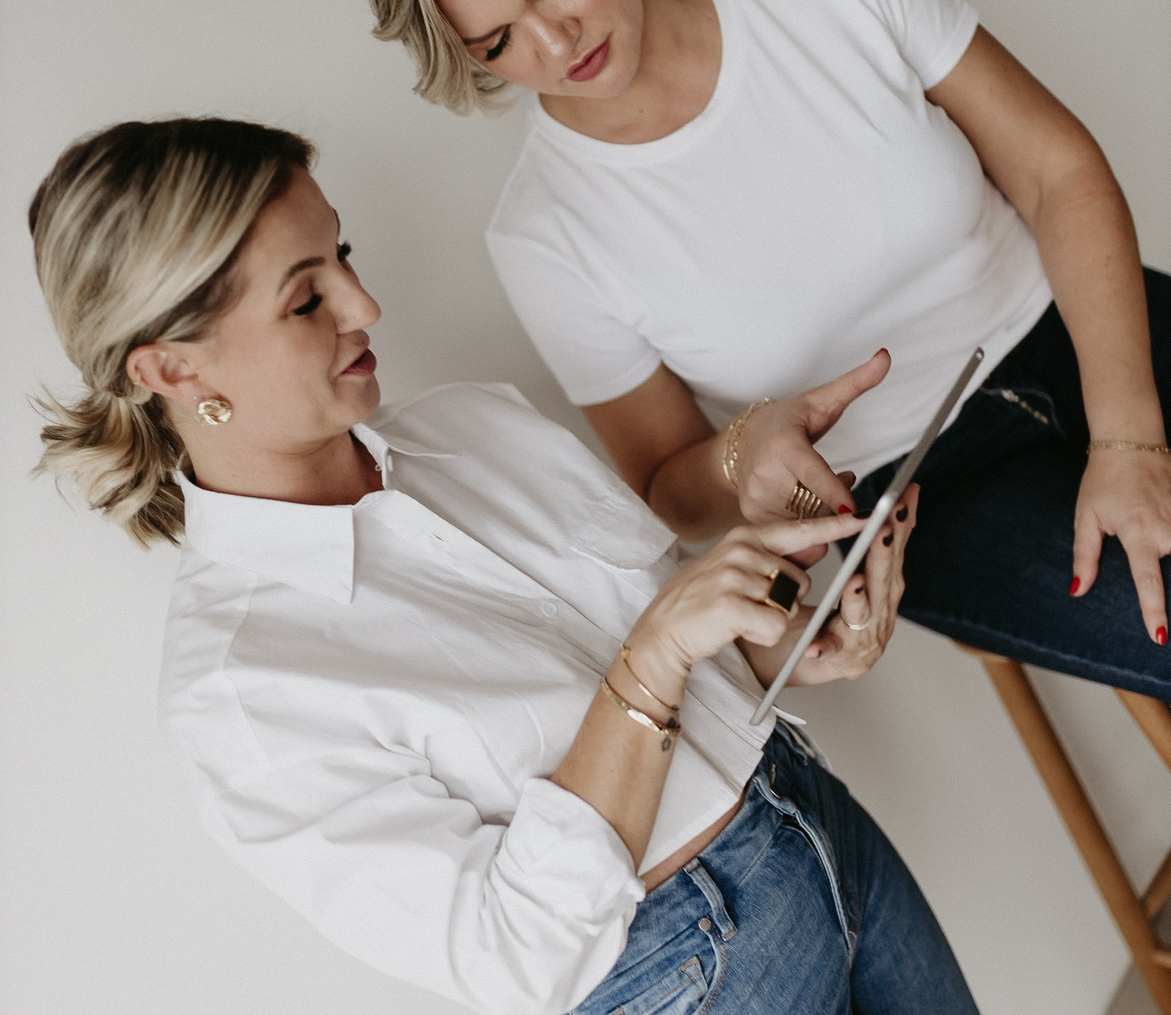
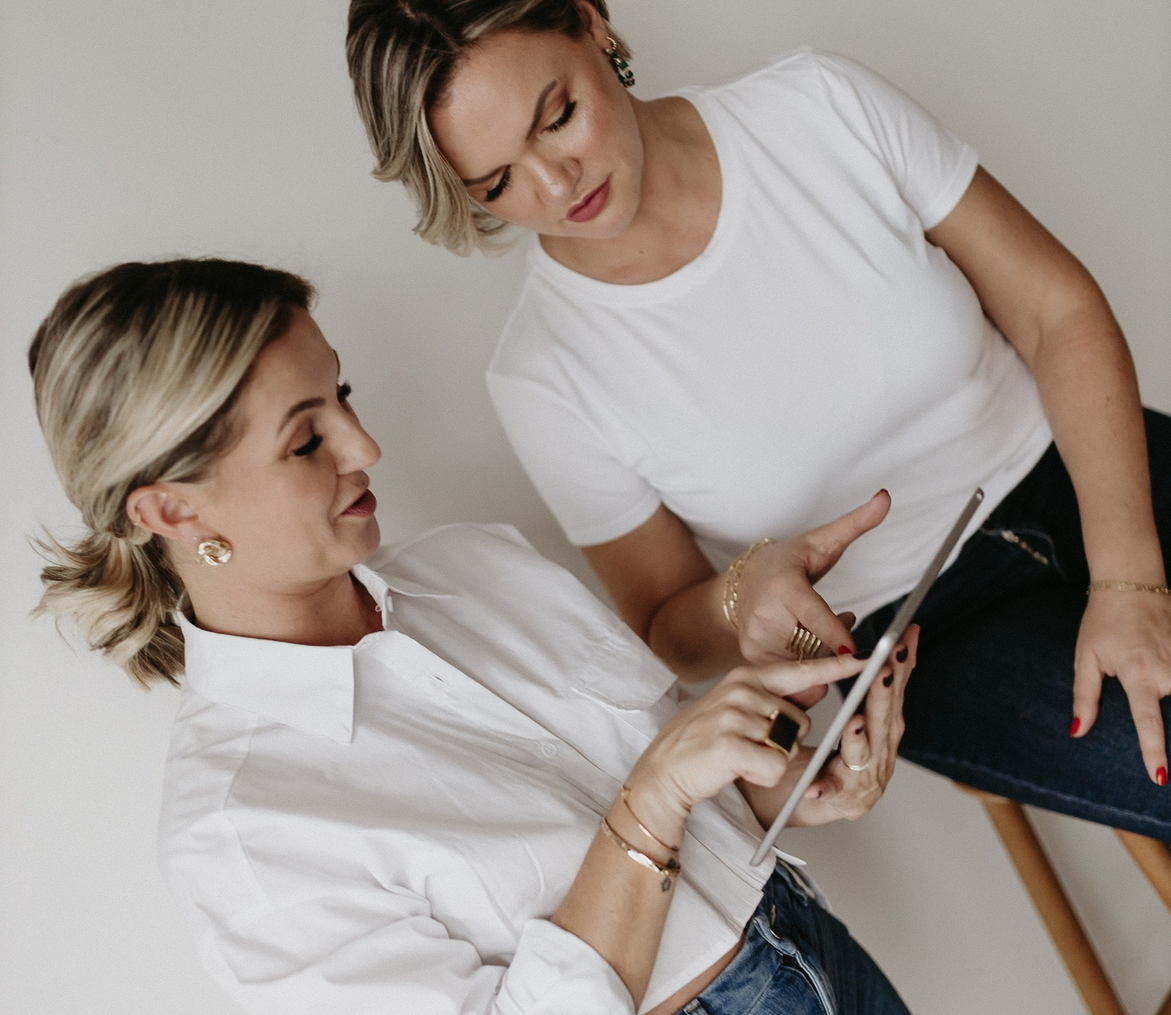
fix(lp-divorcio): desce o hero para mostrar as duas faces (#133)
Recorte com mais folga acima e object-position 28%, para
as duas sócias aparecerem sem cortar a de cima.

diff --git a/src/content/lp/divorcio.tsx b/src/content/lp/divorcio.tsx
@@ -22,8 +22,8 @@ export const divorcioContent: LpContent = {
     "Atendimento em todo o Brasil",
   ],
   heroImage: "/IMG_8535_hero.jpg",
-  // Recorte mais baixo no original: sócia de baixo entra; topo pode cortar um pouco
-  heroObjectPosition: "38% 55%",
+  // Desceu o foco: rostos das duas sócias visíveis
+  heroObjectPosition: "38% 28%",
   // Anexo 3 — mesmo enquadramento do CTA final da LP Saúde
   finalCtaImage: "/IMG_8432.jpg",
   finalCtaObjectPosition: "center 40%",
